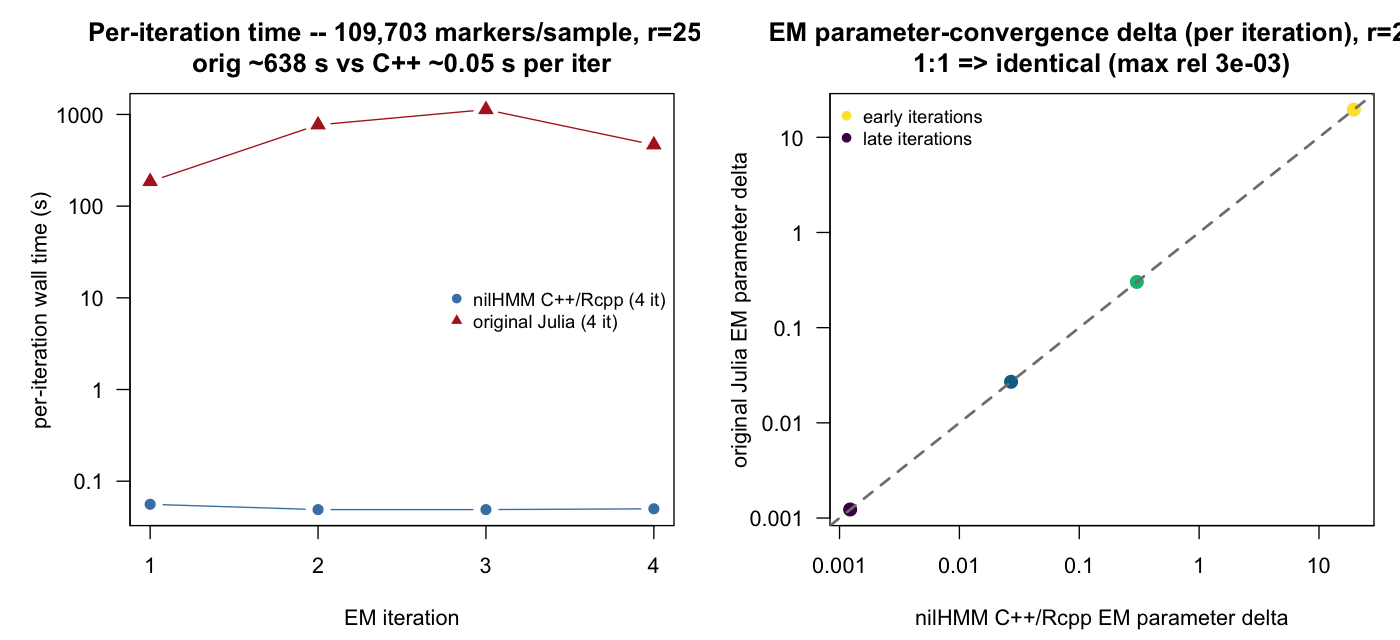
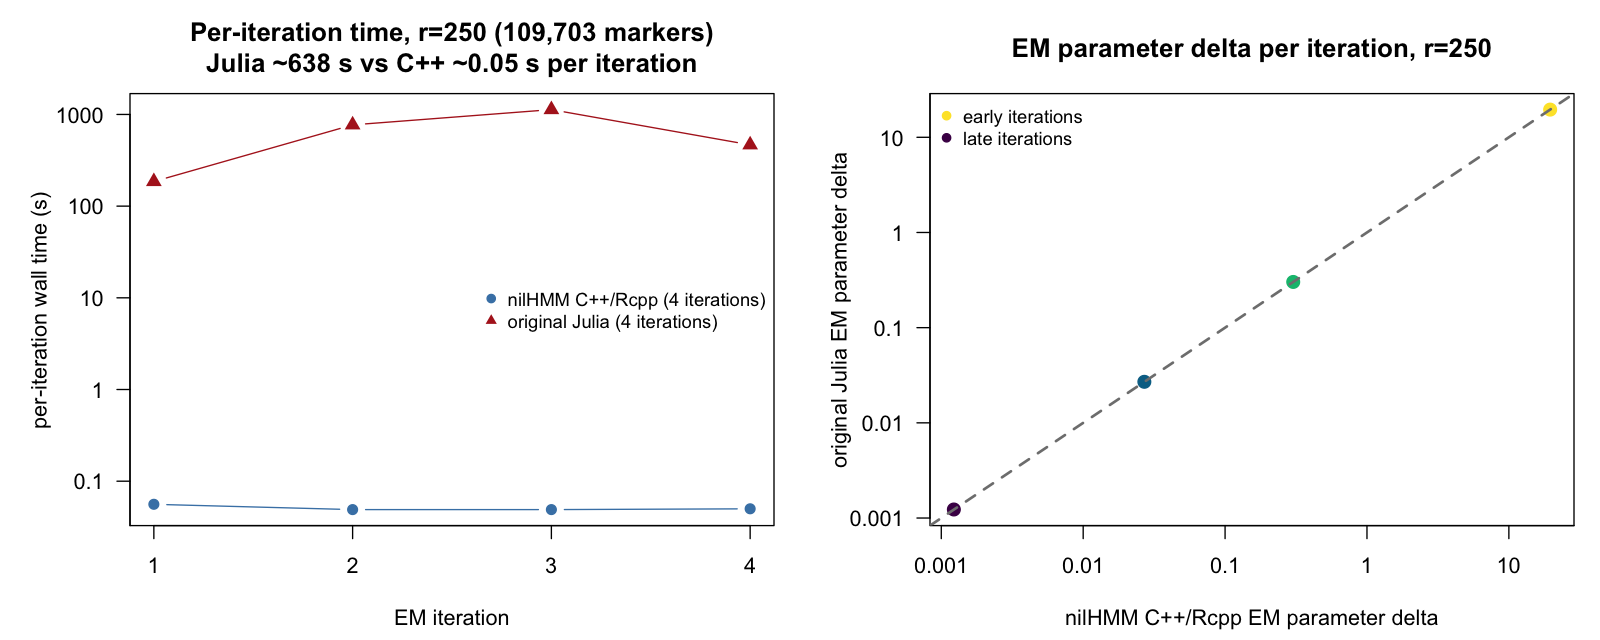
fix(fig): un-clip the r=250 equivalence figure panel titles
Titles overflowed and cut "r=250" to "r=25"/"r=2". Regenerated at 1600px so the
full-size titles fit, with "iteration" spelled out and the baseline labelled "Julia".

diff --git a/supplement_optimization.tex b/supplement_optimization.tex
@@ -201,7 +201,7 @@ The per-step time and memory complexity is consolidated in Table~\ref{tab:comple
 \renewcommand{\arraystretch}{1.25}
 \begin{tabular}{@{}l l l l@{}}
 \toprule
-optimization & before (per iter) & after (per iter) & effect \\
+optimization & before (per iteration) & after (per iteration) & effect \\
 \midrule
 $\Psi$ window          & $\bigO(T s r)$              & $\bigO(T s)$                          & drop $r$ \\
 emission log-pdf       & $\bigO(T s)$ evals         & $\bigO(D s)$ evals                    & factor $T/D$ \\
@@ -299,7 +299,7 @@ iterations, i.e.\ RTIGER's convergence criterion, not a log-likelihood change.
 \small
 \begin{tabular}{@{}r c c c c@{}}
 \toprule
-markers / sample & EM iters (C++ / Julia) & Viterbi match & mismatches & param max-diff \\
+markers / sample & EM iterations (C++ / Julia) & Viterbi match & mismatches & param max-diff \\
 \midrule
 6{,}857   & 3 / 3 & 20{,}571 / 20{,}571   & 0 & $4\times10^{-7}$ \\
 13{,}713  & 3 / 3 & 41{,}139 / 41{,}139   & 0 & $6\times10^{-7}$ \\
@@ -325,8 +325,8 @@ mismatches), and fit emission parameters to float-summation tolerance. Compute:
 \includegraphics[width=\textwidth]{figures/rtiger_equivalence_r250.png}
 \caption{Full panel (109{,}703 markers/sample), rigidity $r=250$, both cores run to
 convergence (4 iterations each). \textbf{Left:} per-iteration wall time, original
-Julia ($\sim$638~s/iter, dominated by its recomputed length-$r$ emission window) vs
-nilHMM C++/Rcpp ($\sim$0.05~s/iter, flat). \textbf{Right:} each iteration's
+Julia ($\sim$638~s/iteration, dominated by its recomputed length-$r$ emission window)
+vs nilHMM C++/Rcpp ($\sim$0.05~s/iteration, flat). \textbf{Right:} each iteration's
 \emph{EM parameter delta} (the maximum absolute change in the BetaBinomial emission
 parameters $(\alpha,\beta)$ between successive EM iterations, i.e.\ RTIGER's
 convergence criterion, not a log-likelihood change), C++ against original Julia on a